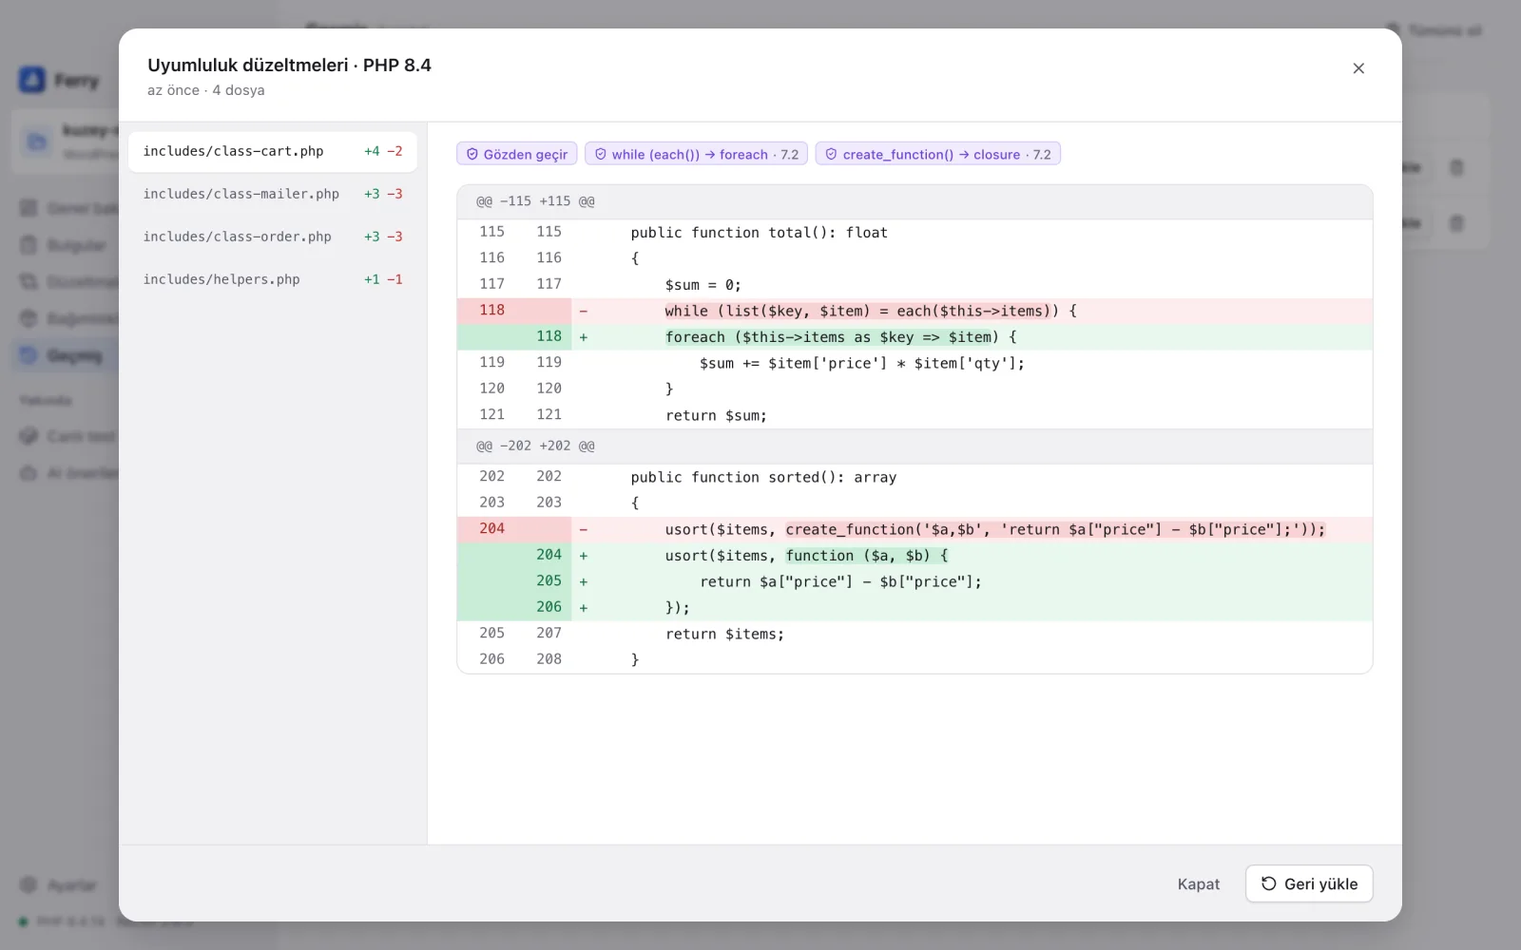
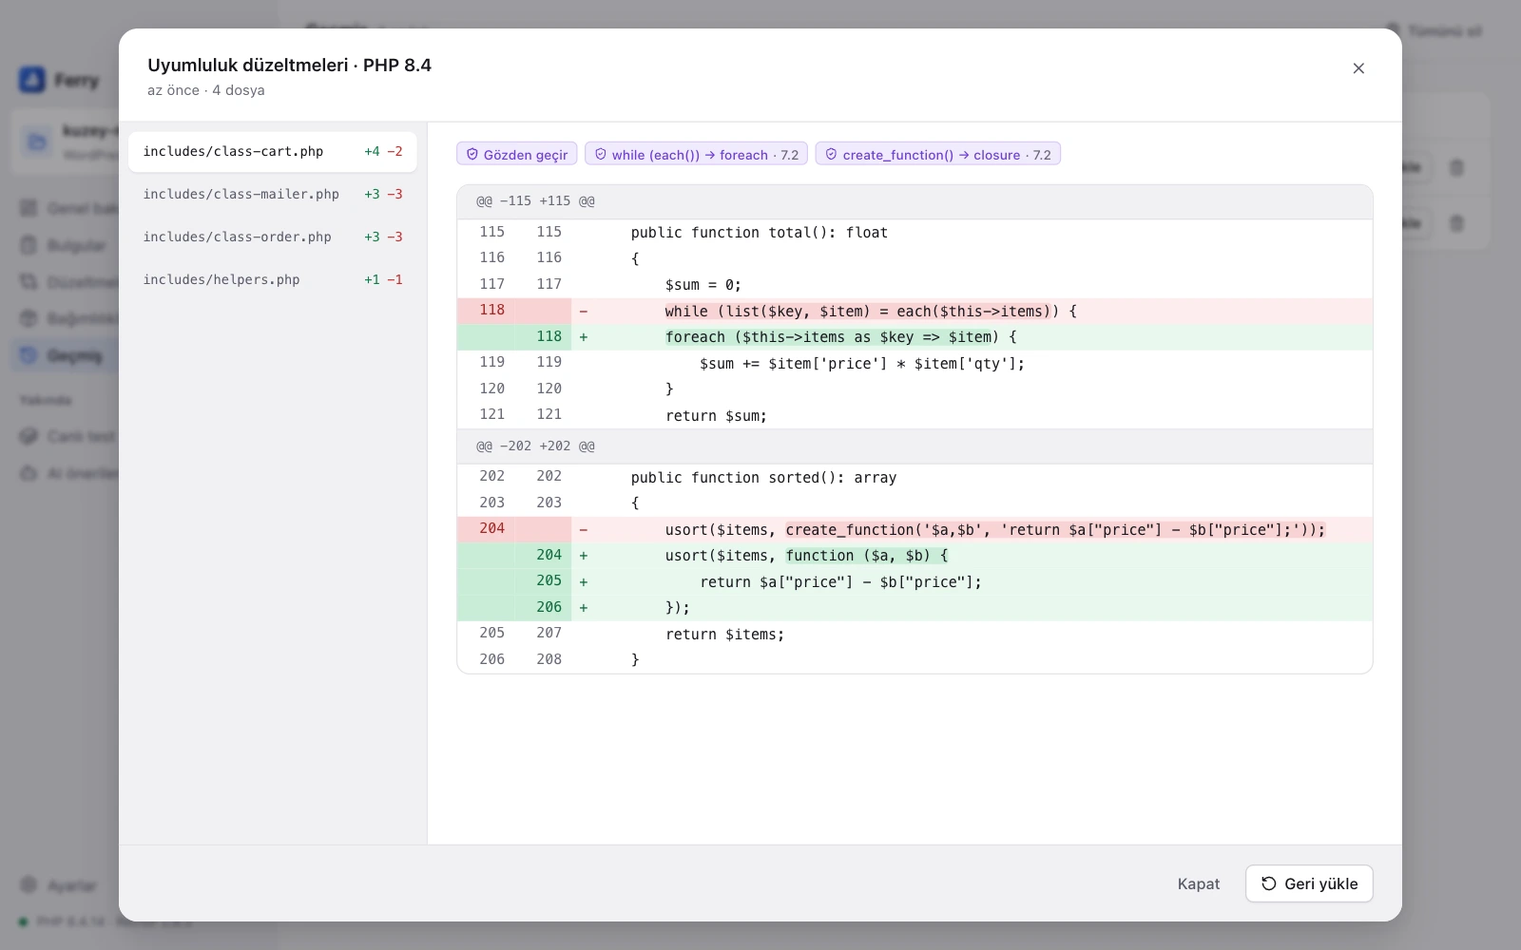
Refresh the READMEs and screenshots for the latest features
Covers the overview shortcuts and automatic rescan, the Findings filter
bar, the new scanner rules, the post-apply php -l check, the ordered
dependency list with its composer command, the restore safeguard, the
backup limit, safe writes, pnpm e2e:native and the current CI setup.
All ten screenshots are retaken from the current interface.

diff --git a/README.tr.md b/README.tr.md
@@ -12,7 +12,7 @@ Ferry, macOS ve Windows'ta çalışan bir masaüstü uygulamasıdır. PHP kodunu
 
 [Özellikler](#özellikler) · [Kurulum](#kurulum) · [Gizlilik](#gizlilik) · [Nasıl çalışır](#nasıl-çalışır) · [Kaynaktan derleme](#kaynaktan-derleme) · [English](README.md)
 
-![PHP 7.4'ten 8.4'e geçecek bir WordPress projesi için Ferry genel bakış ekranı: 47 puanlık hazırlık skoru, otomatik, gözden geçirilecek ve elle yapılacak düzeltmelerin dağılımı; kritik, eskimiş ve riskli bulguların sayıları](assets/readme/hero-tr.webp)
+![PHP 7.4'ten 8.4'e geçecek bir WordPress projesi için Ferry genel bakış ekranı: 39 puanlık hazırlık skoru, otomatik, gözden geçirilecek ve elle yapılacak düzeltmelerin dağılımı; kritik, eskimiş ve riskli bulguların sayıları](assets/readme/hero-tr.webp)
 
 - **Sorunları kullanıcılarınızdan önce görün.** PHP 7.0 ile 8.5 arasında kaldırılan ya da değişen her kullanım; dosyası, satırı ve neden önemli olduğuyla listelenir.
 - **Siz onaylamadan hiçbir şey değişmez.** Rector yalnızca deneme modunda çalışır. Her değişikliği satır satır inceler, yalnızca seçtiğiniz dosyaları uygularsınız.
@@ -38,13 +38,15 @@ Geçmek istediğiniz sürümü seçin (PHP 8.1 ile 8.5 arası); Ferry tüm PHP d
 - bulguların kaçının **Kritik** (kod çalışmaz), **Eskimiş** (şimdilik uyarı verir, ileride kaldırılır) ya da **Riskli** (çalışırken farklı davranabilir) olduğu
 - en sık görülen sorunlar ve atmanız gereken sonraki adımlar
 
+Her sayı bir kısayoldur: **Kritik**'e, **Elle düzelt**'e ya da en sık görülen sorunlardan birine tıklayın, **Bulgular** tam olarak onlara süzülmüş hâlde açılır. Hedef sürümü değiştirdiğinizde proje hemen yeniden taranır; düzeltmeleri hesapladıysanız Ferry onları silmeden önce sorar.
+
 Bakımını sizin yapmadığınız framework kodu kendiliğinden atlanır: WordPress'te `wp-admin` ve `wp-includes`, Laravel'de `storage` ve `bootstrap/cache`, Symfony'de `var`, Drupal çekirdeği; her projede de `vendor` ve `node_modules`. Atlanan klasörler genel bakışta yazılıdır.
 
 **Rapor al** ile sonuçları bir Markdown dosyasına kaydedebilir, bir iş kaydına ekleyebilir ya da ekibinizle paylaşabilirsiniz.
 
 ### Her bulgu, açıklamasıyla
 
-**Bulgular** sayfası her sorunu dosyasına göre gruplar; satırını, kodunu ve düzeltme türünü gösterir. Düzeltme türüne ya da önem derecesine göre süzebilir, dosyalarda ve sorunlarda arama yapabilirsiniz.
+**Bulgular** sayfası her sorunu dosyasına göre gruplar; satırını, kodunu ve düzeltme türünü gösterir. Dosyalarda ve sorunlarda arama yapabilir, düzeltme türüne ya da önem derecesine göre süzebilir ve kaç bulgunun eşleştiğini görebilirsiniz. Genel bakışta seçtiğiniz bir kural kaldırılabilir bir süzgeç olarak görünür; **Filtreleri temizle** hepsini sıfırlar. Sayfa değiştirdiğinizde süzgeçler korunur.
 
 ![Dosyalara göre gruplanmış bulgular, düzeltme türü ve önem derecesi süzgeçleri ve bir mysql_connect() bulgusunun ayrıntıları: neden önemli olduğu, yerine ne kullanılacağı ve düzeltme türü](assets/readme/findings-tr.webp)
 
@@ -62,6 +64,7 @@ Ferry'nin kendi PHP sözcük çözümleyicisi ve kural seti vardır; kodu PHP'ni
 - `mysql_*`, `ereg*`, `each()`, `create_function()` ve `money_format()` gibi kaldırılan eklenti ve fonksiyonlar
 - `$str{0}`, `(real)` ve `(unset)` dönüşümleri ve PHP 8'in attribute olarak okuduğu PHP 7 `#[` yorumları gibi artık ayrıştırılamayan yazımlar
 - `"${var}"` yerleştirmesi, örtük nullable parametreler, `utf8_encode()`, `FILTER_SANITIZE_STRING` ve `E_STRICT` gibi kullanımdan kalkanlar
+- zorunlu bir parametreden önce gelen isteğe bağlı parametre, yerleşik metin fonksiyonlarına doğrudan verilen `null` ve `"self::method"` biçimindeki callable'lar gibi parametre ve çağrı kalıpları
 - `eval()`, `extract()` ve değişken değişkenler gibi elle kontrol edilmesi gereken kodlar
 
 ### Her değişikliği uygulamadan önce inceleyin
@@ -73,6 +76,7 @@ Ferry'nin kendi PHP sözcük çözümleyicisi ve kural seti vardır; kodu PHP'ni
 - **Uyumluluk** yalnızca yeni sürümde çalışmak için gerekenleri değiştirir. Başlamak için en doğru yer burasıdır.
 - **Modernleştirme** hedef sürümün yeni yazımlarını da benimser.
 - İstediğiniz dosyaları seçip **Uygula**'ya basın. **Gözden geçir** olarak işaretlenen dosyalarda önce kontrol etmeniz için bir not bulunur.
+- Uyguladıktan sonra Ferry değişen dosyaları `php -l` ile kontrol eder; bir değişiklik dosyayı ayrıştırılamaz hâle getirdiyse sizi uyarır, böylece **Geçmiş**'ten hemen geri alabilirsiniz.
 
 Ferry, Rector'ın tek başına çözemediği durumları da ele alır. Örneğin `$str{0}` yazımı içeren bir dosyayı Rector tamamen atlar. Ferry bu yazımları önce `$str[0]` olarak düzeltir, böylece dosyanın geri kalanı da düzeltilir.
 
@@ -84,7 +88,7 @@ Ferry, Rector'ın tek başına çözemediği durumları da ele alır. Örneğin 
 
 ![PHP 8.4 ile uyumsuz üç paket, projenin PHP kısıtı ve her paketin sürümü, PHP gereksinimi ve durumunu gösteren Bağımlılıklar sayfası](assets/readme/dependencies-tr.webp)
 
-Her paket **Uyumlu**, **Uyumsuz** ya da **Belirsiz** (paket bir PHP gereksinimi bildirmiyorsa) olarak işaretlenir. Geliştirme paketleri etiketlidir; **Sadece üretim** seçeneği onları gizler.
+Her paket **Uyumlu**, **Uyumsuz** ya da **Belirsiz** (paket bir PHP gereksinimi bildirmiyorsa) olarak işaretlenir; uyumsuz paketler listenin başında yer alır. Geliştirme paketleri etiketlidir; **Sadece üretim** seçeneği onları gizler. Listenin üstündeki uyarı, geçişi engelleyen paketleri tek tek adıyla içeren, kopyalamaya hazır bir `composer update` komutu verir.
 
 ### Her şeyi Geçmiş'ten geri alın
 
@@ -93,7 +97,8 @@ Ferry her uygulamadan önce değiştireceği dosyaları yedekler. **Geçmiş** s
 ![İncelemek için açılmış bir Geçmiş kaydı: solda değişen dosyalar, sağda seçili dosyanın farkı ve kuralları, altta Geri yükle düğmesi](assets/readme/history-tr.webp)
 
 - **İncele**, her uygulamanın neyi değiştirdiğini dosya dosya ve her değişikliğin ardındaki kurallarla birlikte gösterir.
-- **Geri yükle**, o uygulamadan önceki halleriyle bütün dosyaları geri getirir. Bunlardan birini sonradan düzenlediyseniz Ferry önce o dosyaları listeler.
+- **Geri yükle**, o uygulamadan önceki halleriyle bütün dosyaları geri getirir. Bunlardan birini sonradan düzenlediyseniz Ferry önce o dosyaları listeler; onayladıktan sonra değişen bir dosyanın üzerine ise yazmaz.
+- **Ayarlar**'daki **Saklanacak yedek** seçeneği her projede tutulacak yedek sayısını sınırlar (10, 30 ya da 100). Varsayılanı sınırsızdır.
 - Bir uygulama yarıda kalırsa Ferry dosyaları kendiliğinden geri alır. Bu da başarısız olursa yedek Geçmiş'te kalır; oradan kendiniz geri yükleyebilirsiniz.
 
 ### Masaüstünüz için tasarlandı
@@ -165,7 +170,7 @@ Eksik bir şey olduğunda **Düzeltmeler** sayfası neyin eksik olduğunu söyle
 
 - **Okunanlar:** seçtiğiniz proje klasöründeki PHP dosyaları, `composer.json` ve `composer.lock`.
 - **Yazılanlar:** yalnızca değişiklik uyguladığınız dosyalar. Diğer dosyalara dokunulmaz.
-- **Saklananlar:** her uygulamadan önceki dosya yedekleri, neyin uygulandığının kaydı, Rector'ın önbelleği ve ayarlarınız. Hepsi uygulamanın veri klasöründe durur: macOS'ta `~/Library/Application Support/io.github.efekoca.ferry`, Windows'ta `%APPDATA%\io.github.efekoca.ferry`.
+- **Saklananlar:** her uygulamadan önceki dosya yedekleri (hepsi ya da bir sınır koyduysanız yalnızca en yenileri), neyin uygulandığının kaydı, Rector'ın önbelleği ve ayarlarınız. Hepsi uygulamanın veri klasöründe durur: macOS'ta `~/Library/Application Support/io.github.efekoca.ferry`, Windows'ta `%APPDATA%\io.github.efekoca.ferry`.
 - **Proje kodu:** Tarama kodunuzu hiçbir zaman çalıştırmaz. Düzeltmeleri hesaplarken Rector proje klasöründe çalışır ve projenin `vendor/autoload.php` dosyasını yükler; bu yüzden Composer'ın `autoload.files` listesindeki dosyalar çalıştırılır. Düzeltmeleri yalnızca güvendiğiniz projeler için hesaplayın.
 - **Ağ:** Ferry'nin kendisi hiçbir ağ isteği yapmaz. **Rector'ı kur**'u seçtiğinizde Composer, Rector'ı Packagist'ten indirir.
 
@@ -176,7 +181,7 @@ Her şey kendi bilgisayarınızda çalışır:
 1. Ferry proje türünü ve şu anki PHP sürümünü bulur, bakımını sizin yapmadığınız klasörleri atlar.
 2. Yerleşik tarayıcı her PHP dosyasını ayrıştırır ve şu anki sürümünüzle hedef sürüm arasındaki her sürümün kurallarına göre kontrol eder.
 3. Düzeltmeler için Rector projenizde deneme modunda çalışır; dilediğiniz an durdurabilirsiniz. Ferry önerilen farkları bir önizlemeye dönüştürür ve her dosyanın parmak izini saklar.
-4. Uyguladığınızda Ferry önce seçilen dosyaları yedekler, sonra hiçbirinin önizlemeden bu yana değişmediğini kontrol eder ve her dosyayı tek adımda yazar. Arada değişen bir dosya reddedilir.
+4. Uyguladığınızda Ferry önce seçilen dosyaları yedekler, sonra hiçbirinin önizlemeden bu yana değişmediğini kontrol eder ve her dosyayı tek adımda yazar. Arada değişen bir dosya reddedilir, sembolik bağlantılara dokunulmaz, salt okunur dosyalar salt okunur kalır. Düzeltmeler yalnızca taramanın kapsadığı dosyalara uygulanır; `.git` ya da `.ddev` gibi gizli klasörler hiçbir zaman değişmez.
 5. Geri yükleme yedeği dosyaların üzerine kopyalar. Geçmiş'teki **İncele** ise uygulanan değişiklikleri gösterir.
 
 ## Bilinen sınırlamalar
@@ -188,7 +193,7 @@ Her şey kendi bilgisayarınızda çalışır:
   - Birçok uyarı exception'a dönüştü; örneğin sayılamayan bir değere `count()`.
   - curl, GD ve XML gibi resource'lar artık nesne, bu yüzden `is_resource()` kontrolleri bozulur.
   - PDO MySQL ve SQLite artık gerçek sayı döndürür, bu yüzden `=== "1"` karşılaştırmaları bozulur.
-  - Yerleşik fonksiyonlara değişken üzerinden `null` vermek kullanımdan kalktı.
+  - Yerleşik fonksiyonlara değişken üzerinden `null` vermek kullanımdan kalktı. Ferry doğrudan yazılmış `null`'u bildirir ama bir değişkenin ne tuttuğunu göremez.
   - Dinamik property'ler kullanımdan kalktı. Ferry projenizdeki üst sınıfları ve trait'leri izler; ancak `vendor/` içindeki bir framework sınıfı gibi göremediği bir sınıftan türeyenleri atlar, çünkü property orada tanımlanmış olabilir.
   - `ArrayAccess`, `Iterator` ve benzeri arayüzlerin metotlarında `#[\ReturnTypeWillChange]` eksikse uyarı verilir.
   - imap ya da mcrypt gibi gerekli eklentiler yeni sunucuda kurulu olmayabilir.
@@ -213,6 +218,8 @@ pnpm tauri build          # kurulum dosyaları → target/release/bundle/
 
 Testleri gerçek Rector'la çalıştırmak için `FERRY_TEST_TOOLS` değişkenini Rector'ın kurulu olduğu klasöre yönlendirin: `FERRY_TEST_TOOLS=/yol/tools cargo test --workspace`.
 
+`pnpm e2e:native`, uygulamanın debug sürümünü demo projeler ve Unicode yol, symlink döngüsü ya da boş proje gibi uç durumlar üzerinde baştan sona çalıştırır ve her senaryonun sonucunu bildirir.
+
 **Demo projeleri.** `demo/` klasöründe üç örnek proje var: her kuralı tetikleyen düz PHP bir mağaza, WordPress bir blog ve neredeyse hazır bir Laravel API'si. `pnpm demo` bunları `.demo/` klasörüne sıfırdan kopyalar; böylece asıllarına dokunmadan değişiklik uygulayabilirsiniz. Ayrıntılar için [demo/README.md](demo/README.md).
 
 | Klasör | İçerik |
@@ -222,7 +229,7 @@ Testleri gerçek Rector'la çalıştırmak için `FERRY_TEST_TOOLS` değişkenin
 | `src` | React ve TypeScript arayüzü (tasarım sistemi: [docs/DESIGN.md](docs/DESIGN.md)) |
 | `demo` | Uygulamayı denemek ve testler için örnek projeler |
 
-CI, her push'ta Linux'ta arayüz ve motor testlerini (gerçek Rector dahil) çalıştırır; `main` dalına yapılan push'larda Windows'u da ekler, `v*` etiketlerinde macOS ve Windows kurulum dosyalarını oluşturur.
+CI, her pull request'te ve `main`'e yapılan her push'ta biçimi kontrol eder, arayüz ve motor testlerini (gerçek Rector dahil) Linux ve Windows'ta çalıştırır; `v*` etiketlerinde macOS ve Windows kurulum dosyalarını oluşturur.
 
 Hata bildirimlerinizi, pull request'lerinizi ve geri bildirimlerinizi almaktan mutluluk duyarım.
 

diff --git a/README.md b/README.md
@@ -12,7 +12,7 @@ A desktop app for macOS and Windows that scans your PHP code, shows what will br
 
 [Features](#features) · [Install](#install) · [Privacy](#privacy) · [How it works](#how-it-works) · [Build from source](#build-from-source) · [Türkçe](README.tr.md)
 
-![The Ferry overview for a WordPress project moving from PHP 7.4 to 8.4: a readiness score of 47, the split into automatic, review and manual fixes, and counts of breaking, deprecated and risky findings](assets/readme/hero-en.webp)
+![The Ferry overview for a WordPress project moving from PHP 7.4 to 8.4: a readiness score of 39, the split into automatic, review and manual fixes, and counts of breaking, deprecated and risky findings](assets/readme/hero-en.webp)
 
 - **See the problems before your users do.** Every use of code that was removed or changed between PHP 7.0 and 8.5 is listed with its file, line, and the reason it matters.
 - **Nothing changes without your approval.** Rector runs in dry-run mode only. You review each change line by line and apply only the files you pick.
@@ -38,13 +38,15 @@ Pick the version you are moving to (PHP 8.1 to 8.5) and Ferry scans every PHP fi
 - how many findings are **Breaking** (the code won't run), **Deprecated** (it warns now and will be removed later), or **Risky** (it may behave differently at runtime)
 - the most common issues and the next steps to take
 
+Every number is a shortcut: click **Breaking**, **Manual** or one of the most common issues, and **Findings** opens filtered to exactly those. Switching the target version rescans right away; if you've already calculated fixes, Ferry asks before discarding them.
+
 Framework code you don't maintain is skipped automatically: `wp-admin` and `wp-includes` in WordPress, `storage` and `bootstrap/cache` in Laravel, `var` in Symfony, Drupal core, and `vendor` and `node_modules` everywhere. The overview names the skipped folders.
 
 **Export report** saves the results as a Markdown file you can attach to a ticket or share with your team.
 
 ### Every finding, explained
 
-The **Findings** page lists every issue grouped by file, with the line, the code, and its fix type. Filter by fix type or severity, or search files and issues.
+The **Findings** page lists every issue grouped by file, with the line, the code, and its fix type. Search files and issues, filter by fix type or severity, and see how many findings match. A rule picked on the overview shows up as a filter you can remove, and **Clear filters** resets everything. Filters stay put when you switch pages.
 
 ![Findings page with issues grouped by file, filters for fix type and severity, and the details of a mysql_connect() finding: why it matters, what to use instead, and its fix type](assets/readme/findings-en.webp)
 
@@ -62,6 +64,7 @@ Ferry has its own PHP lexer and rule set, so it reads code the way PHP does: met
 - removed extensions and functions, such as `mysql_*`, `ereg*`, `each()`, `create_function()`, and `money_format()`
 - syntax that no longer parses, such as `$str{0}`, `(real)` and `(unset)` casts, and PHP 7 `#[` comments, which PHP 8 reads as attributes
 - deprecations, such as `"${var}"` interpolation, implicit nullable parameters, `utf8_encode()`, `FILTER_SANITIZE_STRING`, and `E_STRICT`
+- parameter and call patterns, such as an optional parameter before a required one, a literal `null` passed to built-in string functions, and `"self::method"` style callables
 - code worth a manual check, such as `eval()`, `extract()`, and variable variables
 
 ### Review every change before it is applied
@@ -73,6 +76,7 @@ The **Fixes** page runs Rector on your project in dry-run mode. No files change.
 - **Compatibility** makes only the changes needed to run on the new version. It is the best place to start.
 - **Modernize** also adopts newer syntax for the target version.
 - Pick the files you want and press **Apply**. Files marked **Review** carry a note to check them first.
+- After applying, Ferry checks the changed files with `php -l` and warns you if a change left one that no longer parses, so you can roll it back from **History** right away.
 
 Ferry handles cases Rector cannot on its own. For example, a file that uses `$str{0}` makes Rector skip the whole file. Ferry rewrites those offsets to `$str[0]` first, so the rest of the file is still fixed.
 
@@ -84,7 +88,7 @@ A declared requirement like `^8.0` doesn't always mean the package works on the 
 
 ![Dependencies page with three incompatible packages for PHP 8.4, the project's PHP constraint, and each package's version, PHP requirement and status](assets/readme/dependencies-en.webp)
 
-Each package is marked **Compatible**, **Incompatible**, or **Unknown** (when the package declares no PHP requirement). Development packages are labeled, and **Production only** hides them.
+Each package is marked **Compatible**, **Incompatible**, or **Unknown** (when the package declares no PHP requirement), with incompatible packages listed first. Development packages are labeled, and **Production only** hides them. The warning above the list gives a ready-to-copy `composer update` command naming exactly the packages that block the upgrade.
 
 ### Undo anything from History
 
@@ -93,7 +97,8 @@ Before every apply, Ferry backs up the files it is about to change. The **Histor
 ![A History entry opened for review: the changed files on the left, the diff and rules of the selected file on the right, and the Restore button](assets/readme/history-en.webp)
 
 - **Review** shows exactly what each apply changed, file by file, with the rules behind each change.
-- **Restore** puts every file back as it was before that apply. If you edited any of them since, Ferry lists them first.
+- **Restore** puts every file back as it was before that apply. If you edited any of them since, Ferry lists them first, and it refuses to overwrite a file that changes after you confirmed.
+- **Backups to keep** in **Settings** limits how many backups each project keeps (10, 30 or 100). It is unlimited by default.
 - If an apply fails partway, Ferry rolls the files back on its own. If even that fails, the backup stays in History so you can restore it yourself.
 
 ### Made for your desktop
@@ -165,7 +170,7 @@ When something is missing, the **Fixes** page says what and offers **Install Rec
 
 - **Read:** the PHP files, `composer.json`, and `composer.lock` in the project folder you choose.
 - **Written:** only the files you apply changes to. Every other file stays untouched.
-- **Stored:** backups of the files before each apply, a record of what was applied, Rector's cache, and your settings, in the app's data folder: `~/Library/Application Support/io.github.efekoca.ferry` on macOS and `%APPDATA%\io.github.efekoca.ferry` on Windows.
+- **Stored:** backups of the files before each apply (all of them, or only the newest if you set a limit), a record of what was applied, Rector's cache, and your settings, in the app's data folder: `~/Library/Application Support/io.github.efekoca.ferry` on macOS and `%APPDATA%\io.github.efekoca.ferry` on Windows.
 - **Project code:** scanning never runs your code. Calculating fixes runs Rector in the project folder, and Rector loads the project's `vendor/autoload.php`, so files listed under Composer's `autoload.files` are executed. Only calculate fixes for projects you trust.
 - **Network:** Ferry itself makes no network requests. When you choose **Install Rector**, Composer downloads Rector from Packagist.
 
@@ -176,7 +181,7 @@ Everything runs on your computer:
 1. Ferry detects the project type and the current PHP version, and skips folders you don't maintain.
 2. Its built-in scanner tokenizes every PHP file and checks it against the rules for each version between your current one and the target.
 3. For fixes, Rector runs in dry-run mode on your project, and you can stop it at any time. Ferry turns its proposed diffs into a preview and keeps a fingerprint of each file.
-4. When you apply, Ferry first backs up the selected files, then checks that none of them changed since the preview, and writes each one in a single step. A file that changed in the meantime is refused.
+4. When you apply, Ferry first backs up the selected files, then checks that none of them changed since the preview, and writes each one in a single step. A file that changed in the meantime is refused, symbolic links are left alone, and read-only files stay read-only. Fixes only ever touch files the scan covers, so hidden folders such as `.git` or `.ddev` are never changed.
 5. Restoring copies the backup over the files, and **Review** in History shows the changes that were applied.
 
 ## Known limitations
@@ -188,7 +193,7 @@ Everything runs on your computer:
   - Many warnings became exceptions, for example `count()` on a non-countable value.
   - Resources such as curl, GD and XML handles are now objects, so `is_resource()` checks fail.
   - PDO MySQL and SQLite return real integers and floats, so `=== "1"` comparisons fail.
-  - Passing `null` through a variable to a built-in function is deprecated.
+  - Passing `null` through a variable to a built-in function is deprecated. Ferry reports a literal `null`, but can't see what a variable holds.
   - Dynamic properties are deprecated. Ferry follows parent classes and traits inside your project, but skips classes that extend something it can't see, such as a framework class in `vendor/`, because that parent could declare the property.
   - Missing `#[\ReturnTypeWillChange]` on `ArrayAccess`, `Iterator` and similar methods is deprecated.
   - Required extensions such as imap or mcrypt may be missing on the new server.
@@ -213,6 +218,8 @@ pnpm tauri build          # installers → target/release/bundle/
 
 To run the tests against real Rector, point `FERRY_TEST_TOOLS` to a folder where Rector is installed: `FERRY_TEST_TOOLS=/path/to/tools cargo test --workspace`.
 
+`pnpm e2e:native` drives a debug build of the real app through the demo projects and edge cases such as a Unicode path, a symlink loop and an empty project, and reports each scenario.
+
 **Demo projects.** The `demo/` folder holds three sample projects: a plain PHP shop that triggers every rule, a WordPress blog, and a Laravel API that is nearly ready. `pnpm demo` copies them fresh into `.demo/`, so you can apply changes without touching the originals. See [demo/README.md](demo/README.md).
 
 | Path | Contents |
@@ -222,7 +229,7 @@ To run the tests against real Rector, point `FERRY_TEST_TOOLS` to a folder where
 | `src` | React and TypeScript interface (design system in [docs/DESIGN.md](docs/DESIGN.md)) |
 | `demo` | sample projects for trying the app and for the tests |
 
-CI runs the interface and engine tests (including real Rector) on Linux for every push, adds Windows for pushes to `main`, and builds the macOS and Windows installers for `v*` tags.
+CI checks formatting and runs the interface and engine tests (including real Rector) on Linux and Windows for every pull request and push to `main`, and builds the macOS and Windows installers for `v*` tags.
 
 Bug reports and pull requests are welcome.
 
